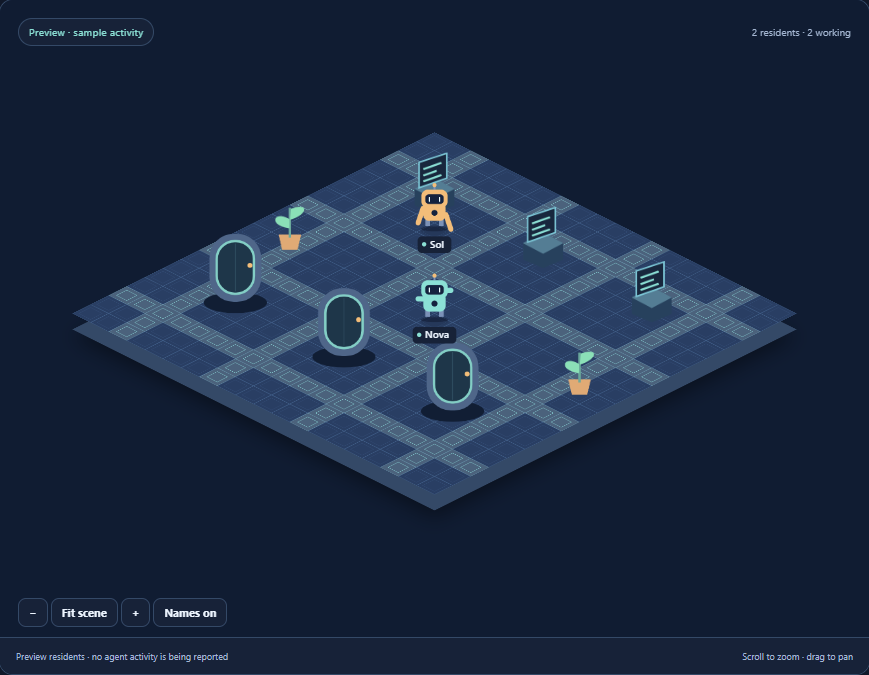
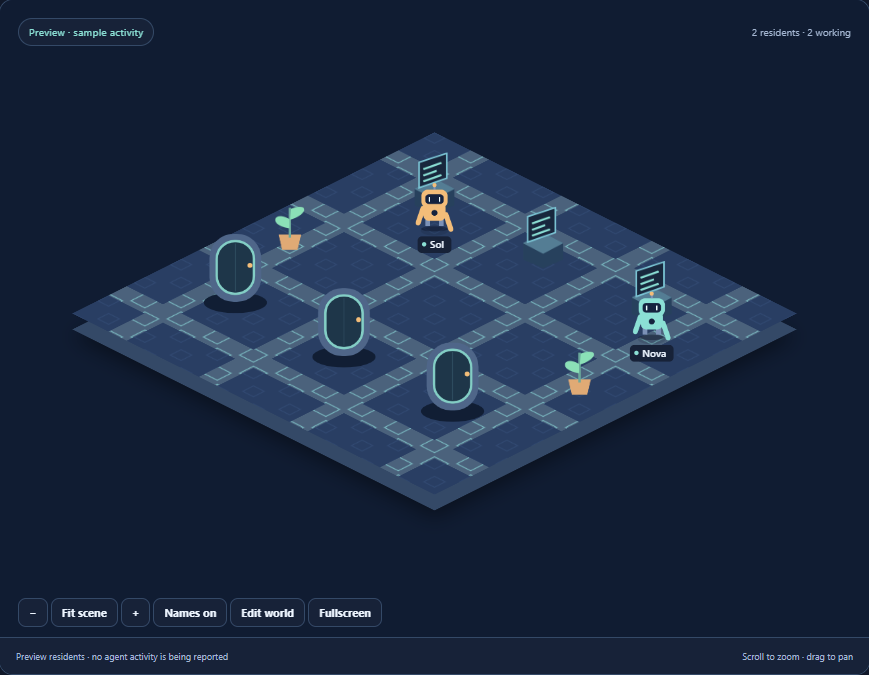
Add fullscreen viewer and confine tile grids to editing

diff --git a/docs/guide.html b/docs/guide.html
@@ -2,7 +2,7 @@
 body{font:16px/1.7 'Segoe UI',sans-serif;background:#101c24;color:#edf5f3;max-width:1000px;margin:auto;padding:50px 30px}h1{font-size:42px;letter-spacing:-1.4px}h2{font-size:25px;margin-top:48px}h3{margin-top:28px}p,li{color:#b5c8ce}a{color:#83d8ce}code,pre{font-family:Consolas,monospace;background:#203640;border-radius:5px}code{padding:2px 6px}pre{padding:20px;overflow:auto;font-size:13px}table{border-collapse:collapse;width:100%;font-size:14px}th,td{border-bottom:1px solid #304a55;padding:12px;text-align:left}nav{display:flex;gap:24px;flex-wrap:wrap;padding:20px 0;border-block:1px solid #304a55}.eyebrow{font-size:12px;letter-spacing:2px;color:#83d8ce}.note{border-left:3px solid #83d8ce;padding:10px 20px;background:#162831}footer{margin-top:60px;border-top:1px solid #304a55;padding-top:20px;color:#9db5bd;font-size:13px}
 </style></head><body><div class="eyebrow">AGENT WATCH / WINDOWS</div><h1>A home for your agents.</h1><p>Choose a project, watch the team work, and make their world your own.</p><nav><a href="#start">Getting started</a><a href="#world">World editor</a><a href="#themes">Themes</a><a href="#authoring">Authoring</a><a href="#updates">Updates</a><a href="#release">Releases</a></nav>
 <h2 id="start">Getting started</h2><ol><li>Download the Windows x64 installer from <a href="https://github.com/william-pyle/AgentWatch/releases/latest">GitHub Releases</a> and install it for your Windows account.</li><li>Open Agent Watch from the Start menu. The Robot Datacenter is included and works offline.</li><li>Choose the folder your agents work in. Recent Codex and Claude sessions from that folder and its descendants appear automatically.</li><li>Open Settings to enable either provider, reduce motion, or check for updates.</li></ol><p>Scroll over the scene to zoom, drag to pan, and use Fit scene to return to the full view. Select a character or a team card to highlight it.</p><p class="note">Preview mode is labeled and contains sample actions. Live mode shows observed local sessions from the past 24 hours. Quiet, waiting and unconfirmed states remain distinct. The application observes agents; it does not control them.</p>
-<h2 id="world">Arrange your world</h2><p>Choose <strong>Edit world</strong> beneath the scene. The editor works with every installed theme, including the bundled datacenter. No personal copy is required for layout changes.</p><ol><li><strong>Select &amp; move:</strong> click visible scenery or choose it in the placed-object list, then drag it to a new tile. The inspector also accepts exact column, row and height values. Mirror flips the artwork. Bridges use direction and span instead of height.</li><li><strong>Place scenery:</strong> choose an object from the palette and click a tile. Duplicate and Remove act on the selection.</li><li><strong>Paint terrain:</strong> choose a surface and drag across the map. One brush stroke is one undo step.</li><li><strong>Place a home / work destination:</strong> choose a character or activity destination, then click walkable ground. Homes appear as gold circles and work destinations as blue diamonds. Reposition these markers when relocating the stations they serve. Linked Borg alcoves and their home markers move together, including mirrored alcoves.</li><li><strong>Save layout:</strong> apply your arrangement and resume activity. Cancel discards the draft. Restore theme layout is an undoable draft action; save it to keep the reset.</li></ol><p>Alt-drag pans while editing. Scroll zooms. Arrow keys move selected scenery; Delete removes it. Ctrl+Z and Ctrl+Y undo and redo. Animation pauses while the editor is open. Place scenery on the map so its footprint leaves residents room to walk; paths recalculate after editing.</p><p>Layouts are local to each theme and stored outside its downloaded files. Only your changed objects, terrain cells, homes and destinations are saved. Theme updates can supply new artwork, behavior and untouched scenery while retaining your changes. Saving detects an intervening layout or theme update; your draft stays open if a conflict occurs. An incompatible theme change shows a warning and keeps the saved layout on disk. The prior save is retained as a recovery copy.</p><p>Mooseville includes flowing water under its bridges and smoke from its chimneys. Chimney positions follow moved, mirrored and resized buildings. Reduce motion in Settings freezes ambient effects as well as character animation.</p><h2 id="themes">Theme library and personal copies</h2><p>The GitHub <a href="https://github.com/william-pyle/AgentWatch/blob/main/themes/index.json">catalog</a> lists every available theme. Robot Datacenter is installed with the app. Mooseville preserves the original village and artwork; Orbital Station is a compact alternative. Smurfs adds six character types, mushroom homes, woodland scenery and individual character routines. Borg Cube adds eight distinct drones, a central Queen, workstations and 16 regeneration alcoves. Use Agent Watch 0.4.0 or later for its backward docking and animated lighting. Use Theme library to download and switch themes.</p><p>Choose <strong>Make a personal copy</strong> before replacing downloaded artwork or editing a full theme manifest. Use Edit world for layout changes. A copy has its own ID and stays on this computer. In Theme Studio you can change action mappings, assign characters, replace images, and edit the full theme manifest. The image replacement picker keeps the same file format; for a different format add the file in the theme folder and update the manifest.</p><p>Activity mappings and character assignments live outside the pack and survive updates. They belong to the theme where you set them. Personal copies have independent settings. If you edit a managed downloaded pack directly, updates to that pack are skipped until you preserve those edits in a personal copy.</p>
+<h3>Fullscreen and viewing</h3><p>Click <strong>Fullscreen</strong> beneath the scene or press <strong>F11</strong>. The world fills the display, with pan, zoom, names and editing controls available. Press <strong>Esc</strong>, F11 again or <strong>Exit fullscreen</strong> to return to the window. Opening fullscreen from another section returns you to that section on exit. Unsaved fields and world-editor drafts are retained.</p><p>Normal viewing uses continuous floor surfaces without a placement grid. Edit world restores tile boundaries and the placement grid; use <strong>Show placement grid</strong> to hide or show the overlay while editing. Original theme artwork and saved maps remain intact.</p><h2 id="world">Arrange your world</h2><p>Choose <strong>Edit world</strong> beneath the scene. The editor works with every installed theme, including the bundled datacenter. No personal copy is required for layout changes.</p><ol><li><strong>Select &amp; move:</strong> click visible scenery or choose it in the placed-object list, then drag it to a new tile. The inspector also accepts exact column, row and height values. Mirror flips the artwork. Bridges use direction and span instead of height.</li><li><strong>Place scenery:</strong> choose an object from the palette and click a tile. Duplicate and Remove act on the selection.</li><li><strong>Paint terrain:</strong> choose a surface and drag across the map. One brush stroke is one undo step.</li><li><strong>Place a home / work destination:</strong> choose a character or activity destination, then click walkable ground. Homes appear as gold circles and work destinations as blue diamonds. Reposition these markers when relocating the stations they serve. Linked Borg alcoves and their home markers move together, including mirrored alcoves.</li><li><strong>Save layout:</strong> apply your arrangement and resume activity. Cancel discards the draft. Restore theme layout is an undoable draft action; save it to keep the reset.</li></ol><p>Alt-drag pans while editing. Scroll zooms. Arrow keys move selected scenery; Delete removes it. Ctrl+Z and Ctrl+Y undo and redo. Animation pauses while the editor is open. Place scenery on the map so its footprint leaves residents room to walk; paths recalculate after editing.</p><p>Layouts are local to each theme and stored outside its downloaded files. Only your changed objects, terrain cells, homes and destinations are saved. Theme updates can supply new artwork, behavior and untouched scenery while retaining your changes. Saving detects an intervening layout or theme update; your draft stays open if a conflict occurs. An incompatible theme change shows a warning and keeps the saved layout on disk. The prior save is retained as a recovery copy.</p><p>Mooseville includes flowing water under its bridges and smoke from its chimneys. Chimney positions follow moved, mirrored and resized buildings. Reduce motion in Settings freezes ambient effects as well as character animation.</p><h2 id="themes">Theme library and personal copies</h2><p>The GitHub <a href="https://github.com/william-pyle/AgentWatch/blob/main/themes/index.json">catalog</a> lists every available theme. Robot Datacenter is installed with the app. Mooseville preserves the original village and artwork; Orbital Station is a compact alternative. Smurfs adds six character types, mushroom homes, woodland scenery and individual character routines. Borg Cube adds eight distinct drones, a central Queen, workstations and 16 regeneration alcoves. Use Agent Watch 0.4.0 or later for its backward docking and animated lighting. Use Theme library to download and switch themes.</p><p>Choose <strong>Make a personal copy</strong> before replacing downloaded artwork or editing a full theme manifest. Use Edit world for layout changes. A copy has its own ID and stays on this computer. In Theme Studio you can change action mappings, assign characters, replace images, and edit the full theme manifest. The image replacement picker keeps the same file format; for a different format add the file in the theme folder and update the manifest.</p><p>Activity mappings and character assignments live outside the pack and survive updates. They belong to the theme where you set them. Personal copies have independent settings. If you edit a managed downloaded pack directly, updates to that pack are skipped until you preserve those edits in a personal copy.</p>
 <h2 id="authoring">Authoring a complete theme</h2><p>A theme is a folder with <code>theme.json</code> and its referenced image assets. There is no executable theme code, remote script or CSS injection. All paths are relative and must remain inside the theme folder. PNG, WebP, JPEG, SVG and GIF images are accepted; use transparent PNG or SVG for characters and scenery. For animated characters, supply explicit frame lists; GIF assets are treated as images, not an animation timeline.</p>
 <table><thead><tr><th>Manifest field</th><th>Purpose</th></tr></thead><tbody>
 <tr><td><code>schemaVersion</code>, <code>id</code>, <code>version</code></td><td>API version 1, stable lowercase ID, and a three-part version.</td></tr>

diff --git a/themes/index.html b/themes/index.html
@@ -1,1 +1,1 @@
-<!doctype html><html lang="en"><head><meta charset="utf-8"><meta name="viewport" content="width=device-width,initial-scale=1"><title>Agent Watch themes</title><style>body{font:16px/1.6 Segoe UI,sans-serif;background:#101c24;color:#edf5f3;max-width:1100px;margin:auto;padding:48px 30px}h1{font-size:38px}a{color:#83d8ce}p{color:#9db5bd}.grid{display:grid;grid-template-columns:repeat(auto-fit,minmax(280px,1fr));gap:24px}article{border:1px solid #304a55;border-radius:12px;overflow:hidden;background:#162831}img{width:100%;height:240px;object-fit:contain;background:#182d39}.copy{padding:22px}h2{margin:0;font-size:22px}small{color:#9db5bd}</style></head><body><p>AGENT WATCH / THEME LIBRARY</p><h1>Choose a world for your team.</h1><p>Install themes inside Agent Watch. The Robot Datacenter comes with the Windows installer; other themes download on demand. Every theme includes replaceable graphics, characters, activities and action mappings.</p><p><a href="../docs/guide.html">Theme authoring guide</a> · <a href="index.json">Machine-readable catalog</a> · <a href="https://github.com/william-pyle/AgentWatch/releases/latest">Windows installer</a></p><div class="grid"><article><img src="borg/assets/preview.png" alt="Borg Cube preview"><div class="copy"><h2>Borg Cube</h2><p>A Borg cube built around its Queen. Eight distinct drones work the collective systems, back into regeneration alcoves when inactive, and recharge under animated green lights. Requires Agent Watch 0.4.0 or later.</p><small>v1.0.0 · 17.9 MiB · Optional download</small><p><a href="borg/theme.json">View theme manifest</a></p></div></article><article><img src="datacenter/assets/preview.png" alt="Robot Datacenter preview"><div class="copy"><h2>Robot Datacenter</h2><p>A raised-floor datacenter staffed by six friendly robots. Each has a charging home; Atlas coordinates from a wall of monitors.</p><small>v1.0.1 · 5.8 MiB · Included with the app</small><p><a href="datacenter/theme.json">View theme manifest</a></p></div></article><article><img src="orbital/assets/preview.png" alt="Orbital Station preview"><div class="copy"><h2>Orbital Station</h2><p>A quiet orbital outpost. Little robots service consoles, explore the deck and recharge between tasks.</p><small>v1.0.0 · 0.2 MiB · Optional download</small><p><a href="orbital/theme.json">View theme manifest</a></p></div></article><article><img src="smurfs/assets/preview.png" alt="Smurfs preview"><div class="copy"><h2>Smurfs</h2><p>A cheerful Smurf village with Papa coordinating, Smurfette, Brainy, Jokey, Hefty and reusable Smurfs. Mushroom homes, smurfberries, a well, woodland work areas and a flowing stream.</p><small>v1.0.0 · 19.0 MiB · Optional download</small><p><a href="smurfs/theme.json">View theme manifest</a></p></div></article><article><img src="village/assets/preview.png" alt="Mooseville preview"><div class="copy"><h2>Mooseville</h2><p>The original hand-painted village. Moose residents craft, explore, garden and rest as your agents work.</p><small>v1.1.0 · 60.0 MiB · Optional download</small><p><a href="village/theme.json">View theme manifest</a></p></div></article></div></body></html>
+<!doctype html><html lang="en"><head><meta charset="utf-8"><meta name="viewport" content="width=device-width,initial-scale=1"><title>Agent Watch themes</title><style>body{font:16px/1.6 Segoe UI,sans-serif;background:#101c24;color:#edf5f3;max-width:1100px;margin:auto;padding:48px 30px}h1{font-size:38px}a{color:#83d8ce}p{color:#9db5bd}.grid{display:grid;grid-template-columns:repeat(auto-fit,minmax(280px,1fr));gap:24px}article{border:1px solid #304a55;border-radius:12px;overflow:hidden;background:#162831}img{width:100%;height:240px;object-fit:contain;background:#182d39}.copy{padding:22px}h2{margin:0;font-size:22px}small{color:#9db5bd}</style></head><body><p>AGENT WATCH / THEME LIBRARY</p><h1>Choose a world for your team.</h1><p>Install themes inside Agent Watch. The Robot Datacenter comes with the Windows installer; other themes download on demand. Every theme includes replaceable graphics, characters, activities and action mappings.</p><p><a href="../docs/guide.html">Theme authoring guide</a> · <a href="index.json">Machine-readable catalog</a> · <a href="https://github.com/william-pyle/AgentWatch/releases/latest">Windows installer</a></p><div class="grid"><article><img src="borg/assets/preview.png" alt="Borg Cube preview"><div class="copy"><h2>Borg Cube</h2><p>A Borg cube built around its Queen. Eight distinct drones work the collective systems, back into regeneration alcoves when inactive, and recharge under animated green lights. Requires Agent Watch 0.4.0 or later.</p><small>v1.0.0 · 17.9 MiB · Optional download</small><p><a href="borg/theme.json">View theme manifest</a></p></div></article><article><img src="datacenter/assets/preview.png" alt="Robot Datacenter preview"><div class="copy"><h2>Robot Datacenter</h2><p>A raised-floor datacenter staffed by six friendly robots. Each has a charging home; Atlas coordinates from a wall of monitors.</p><small>v1.0.1 · 5.7 MiB · Included with the app</small><p><a href="datacenter/theme.json">View theme manifest</a></p></div></article><article><img src="orbital/assets/preview.png" alt="Orbital Station preview"><div class="copy"><h2>Orbital Station</h2><p>A quiet orbital outpost. Little robots service consoles, explore the deck and recharge between tasks.</p><small>v1.0.0 · 0.1 MiB · Optional download</small><p><a href="orbital/theme.json">View theme manifest</a></p></div></article><article><img src="smurfs/assets/preview.png" alt="Smurfs preview"><div class="copy"><h2>Smurfs</h2><p>A cheerful Smurf village with Papa coordinating, Smurfette, Brainy, Jokey, Hefty and reusable Smurfs. Mushroom homes, smurfberries, a well, woodland work areas and a flowing stream.</p><small>v1.0.0 · 19.0 MiB · Optional download</small><p><a href="smurfs/theme.json">View theme manifest</a></p></div></article><article><img src="village/assets/preview.png" alt="Mooseville preview"><div class="copy"><h2>Mooseville</h2><p>The original hand-painted village. Moose residents craft, explore, garden and rest as your agents work.</p><small>v1.1.0 · 60.0 MiB · Optional download</small><p><a href="village/theme.json">View theme manifest</a></p></div></article></div></body></html>

diff --git a/src/renderer/index.html b/src/renderer/index.html
@@ -21,13 +21,14 @@
       <div class="scene-panel"><div class="scene-top"><span id="feed-status" class="pill">Theme preview</span><span id="scene-summary">Six residents, one shared workspace</span></div>
         <canvas id="scene" aria-label="Animated agent workspace" role="img" tabindex="0"></canvas>
         <div id="scene-loading">Loading theme artwork…</div>
-        <div class="scene-controls"><button id="zoom-out" aria-label="Zoom out">−</button><button id="fit">Fit scene</button><button id="zoom-in" aria-label="Zoom in">+</button><button id="labels">Names on</button><button id="edit-world">Edit world</button></div>
+        <div class="scene-controls"><button id="zoom-out" aria-label="Zoom out">−</button><button id="fit">Fit scene</button><button id="zoom-in" aria-label="Zoom in">+</button><button id="labels">Names on</button><button id="edit-world">Edit world</button><button id="fullscreen" aria-pressed="false" aria-keyshortcuts="F11" title="Fullscreen (F11); Esc to exit">Fullscreen</button></div>
         <div class="scene-caption"><span id="scene-caption">Preview residents · no agent activity is being reported</span><span>Scroll to zoom · drag to pan</span></div>
       </div>
       <aside class="roster-panel"><div class="panel-heading"><h2>The team</h2><span id="team-count" class="count">0</span></div><div id="roster"></div><div id="empty-roster" hidden>No recent agents found in this project. Codex and Claude sessions appear here as they work.</div></aside>
       <aside id="world-editor" class="world-editor" hidden aria-label="World editor">
         <div class="panel-heading"><h2>Edit your world</h2><span class="pill">LOCAL</span></div>
         <p id="editor-status" role="status">Changes stay on this computer.</p>
+        <label class="check"><input id="editor-grid" type="checkbox" checked> Show placement grid</label>
         <label for="editor-tool">Tool</label><select id="editor-tool"><option value="select">Select & move</option><option value="add">Place scenery</option><option value="paint">Paint terrain</option><option value="home">Place a home</option><option value="target">Place work destination</option></select>
         <div id="editor-add-field" hidden><label for="editor-kind">Scenery</label><select id="editor-kind"></select><img id="editor-preview" alt="Selected scenery preview"></div>
         <div id="editor-paint-field" hidden><label for="editor-terrain">Terrain</label><select id="editor-terrain"></select></div>

diff --git a/src/renderer/app.css b/src/renderer/app.css
@@ -9,3 +9,10 @@
 .editor-pair{display:flex;gap:8px}.editor-pair>*{flex:1;min-width:0}#editor-preview{display:block;width:100%;height:100px;object-fit:contain;margin-top:8px;background:var(--world);border-radius:8px}
 .editing .scene-panel{min-height:570px;height:calc(100vh - 235px)}.editing .activity-strip{display:none}.editing #scene{cursor:crosshair;touch-action:none}.editing .scene-caption{display:none}
 #scene:focus-visible{outline:2px solid var(--accent);outline-offset:-3px}.world-editor[hidden]{display:none}
+/* Native fullscreen gives the world the display while retaining its controls. */
+body.fullscreen{overflow:hidden}.fullscreen .sidebar,.fullscreen .page-header,.fullscreen .activity-strip,.fullscreen .roster-panel{display:none}
+.fullscreen main{padding:0;height:100vh}.fullscreen .monitor-grid{grid-template-columns:minmax(0,1fr);gap:0;height:100vh}
+.fullscreen #monitor.editing .monitor-grid{grid-template-columns:minmax(0,1fr) 280px}
+.fullscreen #monitor .scene-panel{height:100vh;max-height:none;min-height:0;border:0;border-radius:0}
+.fullscreen #monitor .world-editor{height:100vh;max-height:none;border-radius:0}
+.scene-controls{right:18px;flex-wrap:wrap;width:max-content;max-width:calc(100% - 36px)}

diff --git a/README.md b/README.md
@@ -10,6 +10,8 @@ Install the x64 setup executable, open Agent Watch, and choose your project fold
 
 Everything in a scene is theme data: terrain, scenery, character sprites and animation frames, charging homes, palettes, idle rotations, activities, destinations, and mappings from observed actions or exact tool names to activities. Make a personal copy in Theme Studio to replace images and edit the full manifest. Action and character overrides are stored separately from downloadable packs.
 
+The viewer shows continuous floor surfaces without the placement grid. Click **Fullscreen** or press **F11** to fill the display with the world; **Esc** returns to the window. Zoom, pan and scene controls remain available. The world editor retains tile boundaries and its optional placement grid.
+
 Choose **Edit world** beneath the scene to place and drag objects, paint terrain, resize or mirror scenery, and set homes and activity destinations. Undo/redo, duplicate, remove, save and cancel are included. Each theme's layout is stored separately, so downloaded artwork and behavior updates keep your arrangement. Mooseville includes flowing water and chimney smoke; reduced motion freezes both.
 
 The app checks GitHub at startup for application updates and modified installed themes. App updates download in the background and offer **Restart & install**. Theme packs use content hashes, so changed artwork is detected even when the theme version is unchanged. A complete verified revision is activated atomically. Offline startup uses the included or last installed theme. Personal copies and locally modified packs are protected.
